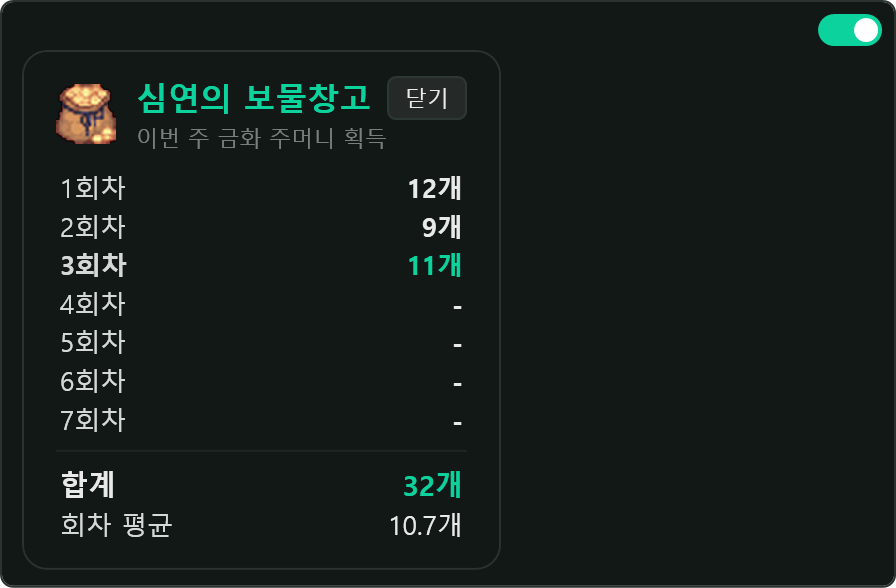
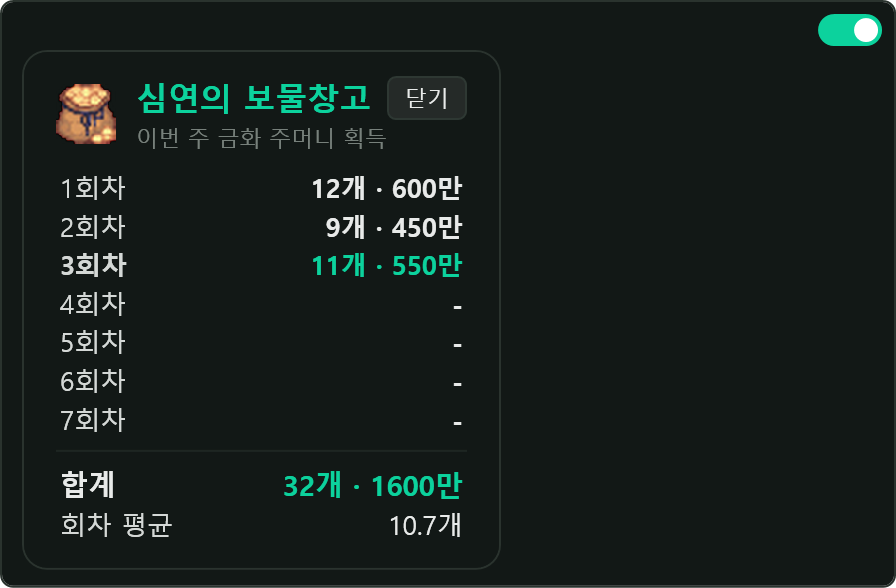
feat: 보물창고 통계에 금화 가치 병기 — 회차·합계에 개수와 시드 환산액(개당 50만) 표시

diff --git a/Views/Overlays/TreasurySummaryWindow.cs b/Views/Overlays/TreasurySummaryWindow.cs
@@ -202,12 +202,18 @@ namespace TWChatOverlay.Views
             base.OnClosed(e);
         }
 
+        // 금화 주머니 1개당 시드 가치 (50만)
+        private const long GoldPouchSeedValue = 500_000;
+
+        private static string FormatGoldValue(long count)
+            => WeeklySeedRewardService.FormatSeed(count * GoldPouchSeedValue);
+
         private void UpdateState(IReadOnlyList<int> runCounts, int currentRun)
         {
             for (int i = 0; i < MaxRuns; i++)
             {
                 bool started = i < runCounts.Count;
-                _runValues[i].Text = started ? $"{runCounts[i]}개" : "-";
+                _runValues[i].Text = started ? $"{runCounts[i]}개 · {FormatGoldValue(runCounts[i])}" : "-";
                 bool isCurrent = i == currentRun - 1;
                 _runLabels[i].FontWeight = isCurrent ? FontWeights.Bold : FontWeights.Normal;
                 _runValues[i].SetResourceReference(TextBlock.ForegroundProperty,
@@ -215,7 +221,7 @@ namespace TWChatOverlay.Views
             }
 
             int total = runCounts.Sum();
-            _totalText.Text = $"{total}개";
+            _totalText.Text = $"{total}개 · {FormatGoldValue(total)}";
             _averageText.Text = runCounts.Count > 0
                 ? $"{(double)total / runCounts.Count:F1}개"
                 : "-";
